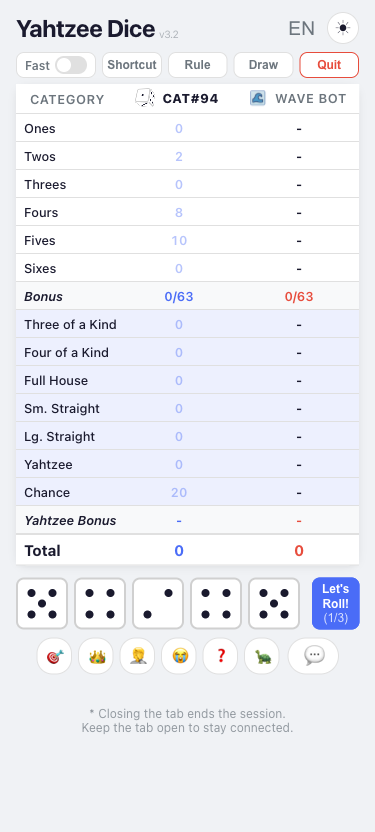
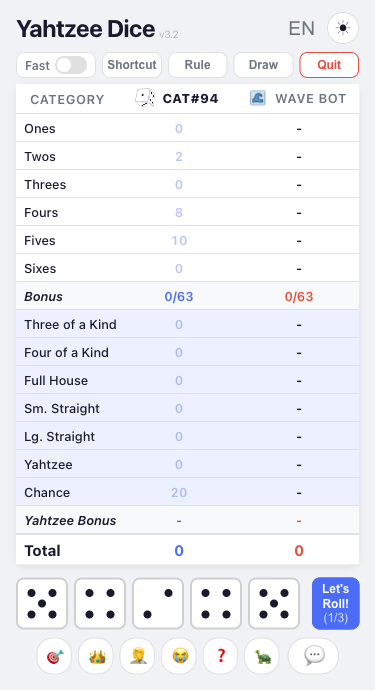
docs: rearrange screenshot layout and crop mobile images
스크린샷 배치 변경: 라이트/다크 모드 → 로비/모바일 순서.
모바일 이미지 하단 여백 crop하여 컴팩트하게 정리.

diff --git a/README.md b/README.md
@@ -8,13 +8,13 @@ A 1v1 online multiplayer dice game. Supports two game modes: **Yacht** (12 categ
 
 ## Screenshots
 
-| Lobby & Skins | Gameplay |
+| Light Mode | Dark Mode |
 |:---:|:---:|
-| ![Lobby](screenshots/lobby-skins-en.png) | ![Gameplay](screenshots/gameplay-light-en.png) |
+| ![Light Mode](screenshots/gameplay-light-en.png) | ![Dark Mode](screenshots/gameplay-dark-en.png) |
 
-| Dark Mode | Mobile |
+| Lobby & Skins | Mobile |
 |:---:|:---:|
-| ![Dark Mode](screenshots/gameplay-dark-en.png) | ![Mobile](screenshots/gameplay-mobile-en.png) |
+| ![Lobby](screenshots/lobby-skins-en.png) | ![Mobile](screenshots/gameplay-mobile-en.png) |
 
 ## Features
 

diff --git a/README.ko.md b/README.ko.md
@@ -8,13 +8,13 @@
 
 ## Screenshots
 
-| 로비 & 스킨 | 게임 플레이 |
+| 라이트 모드 | 다크 모드 |
 |:---:|:---:|
-| ![Lobby](screenshots/lobby-skins.png) | ![Gameplay](screenshots/gameplay-light.png) |
+| ![라이트 모드](screenshots/gameplay-light.png) | ![다크 모드](screenshots/gameplay-dark.png) |
 
-| 다크 모드 | 모바일 |
+| 로비 & 스킨 | 모바일 |
 |:---:|:---:|
-| ![Dark Mode](screenshots/gameplay-dark.png) | ![Mobile](screenshots/gameplay-mobile.png) |
+| ![로비](screenshots/lobby-skins.png) | ![모바일](screenshots/gameplay-mobile.png) |
 
 ## Features
 
